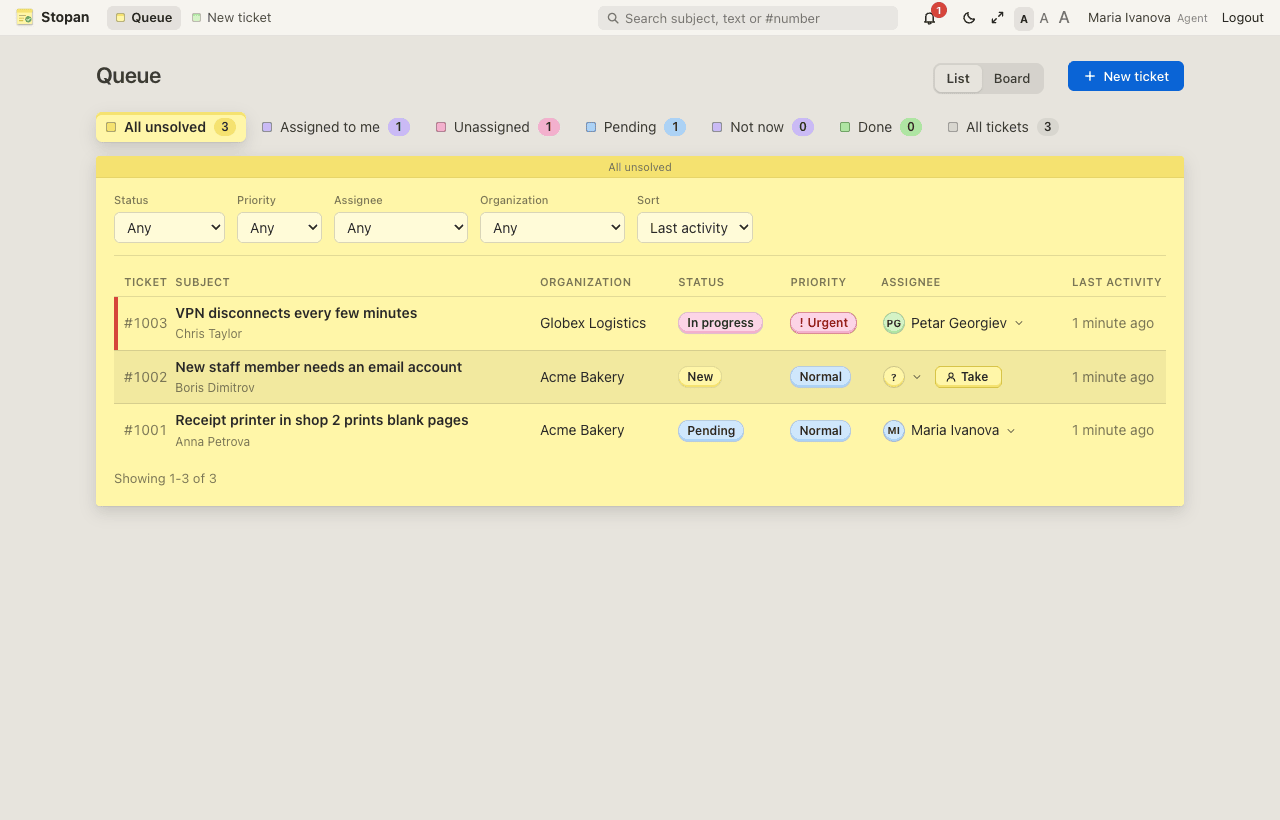
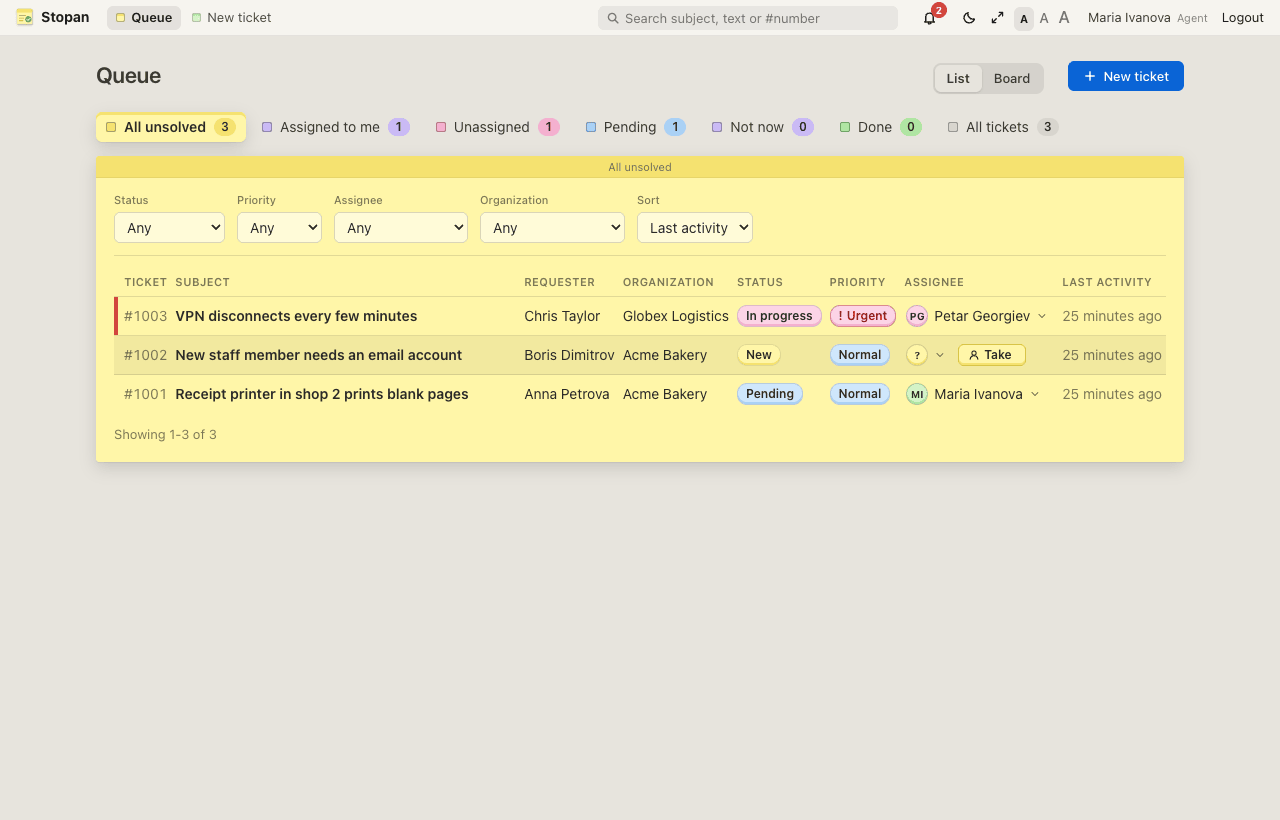
feat(queue): one line per ticket row with a requester column
The requester's name sat under the subject, so every row of the queue
and of "My organizations" was two lines tall. It now has its own
Requester column after the subject.

From 1024px no cell wraps: the subject takes the space left (at least
12em) and ends in an ellipsis, with the full subject as the link's
tooltip. Narrower windows hide the requester column and let cells wrap,
so the table never scrolls sideways; under 760px the other columns hide
as before. Checked at 1280, 1024, 1023, 900, 800 and 390px in English
and Bulgarian.

specs/queues.md "Table" and "My tickets" describe the columns; the
controller tests assert the requester column, and the README queue
screenshot is retaken.

Changed region(s): [[0.0625, 0.3354, 0.9375, 0.6402]]

diff --git a/app/assets/stylesheets/application.css b/app/assets/stylesheets/application.css
@@ -1663,9 +1663,30 @@ form.button_to {
   font-weight: 600;
 }
 
-.ticket-row__requester {
-  color: var(--ink-soft);
-  font-size: 12px;
+/* One line per row (queues.md "Table") where the columns fit: the subject
+   takes the space left and ends in an ellipsis; the other cells do not
+   wrap. Narrower windows drop the requester and wrap so the table fits. */
+@media (max-width: 1023px) {
+  .col-requester {
+    display: none;
+  }
+}
+
+@media (min-width: 1024px) {
+  .tickets-table td {
+    white-space: nowrap;
+  }
+
+  .tickets-table .col-subject {
+    width: 100%;
+    min-width: 12em;
+    max-width: 0;
+  }
+
+  .tickets-table .col-subject .ticket-link {
+    overflow: hidden;
+    text-overflow: ellipsis;
+  }
 }
 
 /* Alternate rows (queues.md "Table"): a tint that suits every paper colour. */

diff --git a/test/controllers/tickets_controller_test.rb b/test/controllers/tickets_controller_test.rb
@@ -13,6 +13,9 @@ class TicketsControllerTest < ActionDispatch::IntegrationTest
     assert_select "h1", "Queue"
     assert_select ".queue__views .view-link[aria-current=page]", /All unsolved/
     assert_select ".tickets-table tbody tr", 3
+    assert_select ".tickets-table th.col-requester", "Requester"
+    assert_select "#ticket_#{tickets(:printer).id} td.col-requester", tickets(:printer).requester.display_name
+    assert_select "#ticket_#{tickets(:printer).id} td.text:not(.col-requester):not(.col-org):not(.col-assignee)", text: /#{tickets(:printer).requester.display_name}/, count: 0
     assert_select ".menubar a.nav-link[aria-current=page]", /Queue/
 
     get tickets_url(view: "all", q: "vpn")
@@ -305,7 +308,11 @@ class TicketsControllerTest < ActionDispatch::IntegrationTest
     assert_select "a.tab[aria-current=page]", /My organizations/
     numbers = css_select("td.ticket-number").map { |cell| cell.text.strip }
     assert_equal %w[#1001 #1002 #1004].sort, numbers.sort
-    assert_select ".ticket-row__requester", /#{users(:anna).display_name}/
+    assert_select "th.col-requester", "Requester"
+    assert_select "td.col-requester", users(:anna).display_name
+
+    get tickets_url(view: "open")
+    assert_select ".col-requester", 0
     assert_select "turbo-cable-stream-source[channel=TicketListsChannel]", 2
 
     get tickets_url(view: "all")

diff --git a/specs/queues.md b/specs/queues.md
@@ -72,8 +72,16 @@ it with the field's own clear button shows the list without search again.
 
 ### Table
 
-Columns: number, subject (with requester name under it), organization,
-status, priority, assignee, last activity. The whole row is not a link -
+Columns: number, subject, requester, organization, status, priority,
+assignee, last activity. Each row is one line (operator, 2026-10-27: the
+requester's name under the subject made rows two lines tall): the
+requester has its own column. In windows at least 1024px wide no cell
+wraps and the subject takes the space left (at least 12em), ending in an
+ellipsis when it does not fit; the full subject is the link's tooltip.
+Narrower windows hide the requester column and let cells wrap so the
+table fits without scrolling sideways (the requester is on the ticket
+page); under 760px organization, priority, assignee and last activity
+are hidden too. The whole row is not a link -
 the subject is, so keyboard and screen reader users get one clear link per
 ticket. Status and priority are pills with text (colour is never the only
 signal). Urgent and high priority rows get a coloured left edge. The
@@ -108,11 +116,12 @@ Assigning from the queue (tickets.md "Assigning"):
 Tabs: `open` (new, open, pending, postponed; default, yellow), `done`
 ("Done"; green), `all` (gray), all three of the requester's own tickets,
 and `organization` ("My organizations", purple: every ticket of the
-organizations they belong to, with the requester's name under the
+organizations they belong to, with a Requester column after the
 subject; roles.md), each with a coloured count; the current tab
 and the list panel take the tab's colour. Search (`q`, same matching as
-above) is the menu bar search. A "New ticket" button. Table columns: number, subject, organization (only if
-they belong to more than one), status, last activity.
+above) is the menu bar search. A "New ticket" button. Table columns: number, subject, requester (only on
+"My organizations"), organization (only if they belong to more than one),
+status, last activity; one line per row as in the queue.
 
 Empty states say what to do next ("You have no open tickets. Need help?
 Open a new ticket.").

diff --git a/session/2026-10-26-assignment-sharing.md b/session/2026-10-26-assignment-sharing.md
@@ -428,6 +428,13 @@ Operator requests, in order:
 - The menu bar marks "Queue" on the board as well (`current_section`
   counts the boards controller as :tickets); `board.png` retaken with the
   demo tickets aged 25 minutes so card times fit on one line.
+- Ticket lists are one line per row (operator did not like the requester
+  under the subject): queue and "My organizations" have a Requester
+  column; from 1024px no cell wraps and the subject ends in an ellipsis
+  (tooltip has it whole, min 12em); under 1024px the requester column is
+  hidden and cells wrap, so the table never scrolls sideways (checked at
+  1280, 1024, 1023, 900, 800 and 390px, en and bg). README `queue.png`
+  retaken.
 
 ## Decisions
 

diff --git a/todo/todo.md b/todo/todo.md
@@ -108,6 +108,7 @@ decisions: IMAP, address = identity, magic links, form off by default):
 - [x] organization list of email addresses or domains allowed to use the public request page (operator)
 - [x] README screenshots refreshed, with a fifth one of the board (specs/ui.md "Screenshots")
 - [x] menu bar marks "Queue" on the board too (specs/ui.md "Menu bar")
+- [x] one line per ticket row: requester in its own column, subject ends in an ellipsis from 1024px (specs/queues.md "Table")
 
 Plan: g0no's note display options for tickets (proposed 2026-10-27,
 approved "go in this order", all done 2026-10-27):
